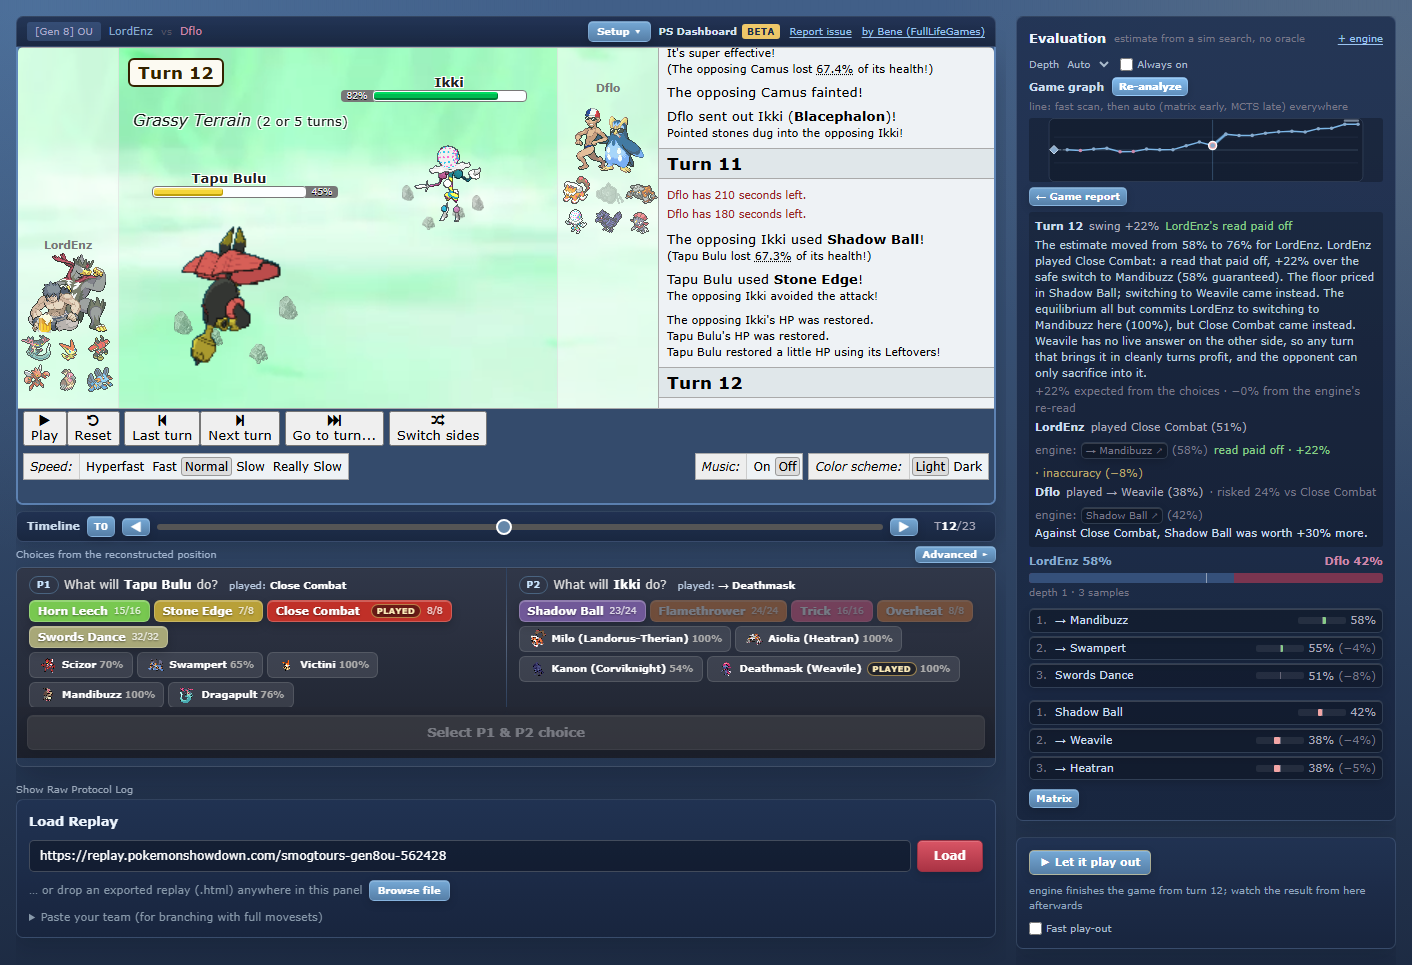
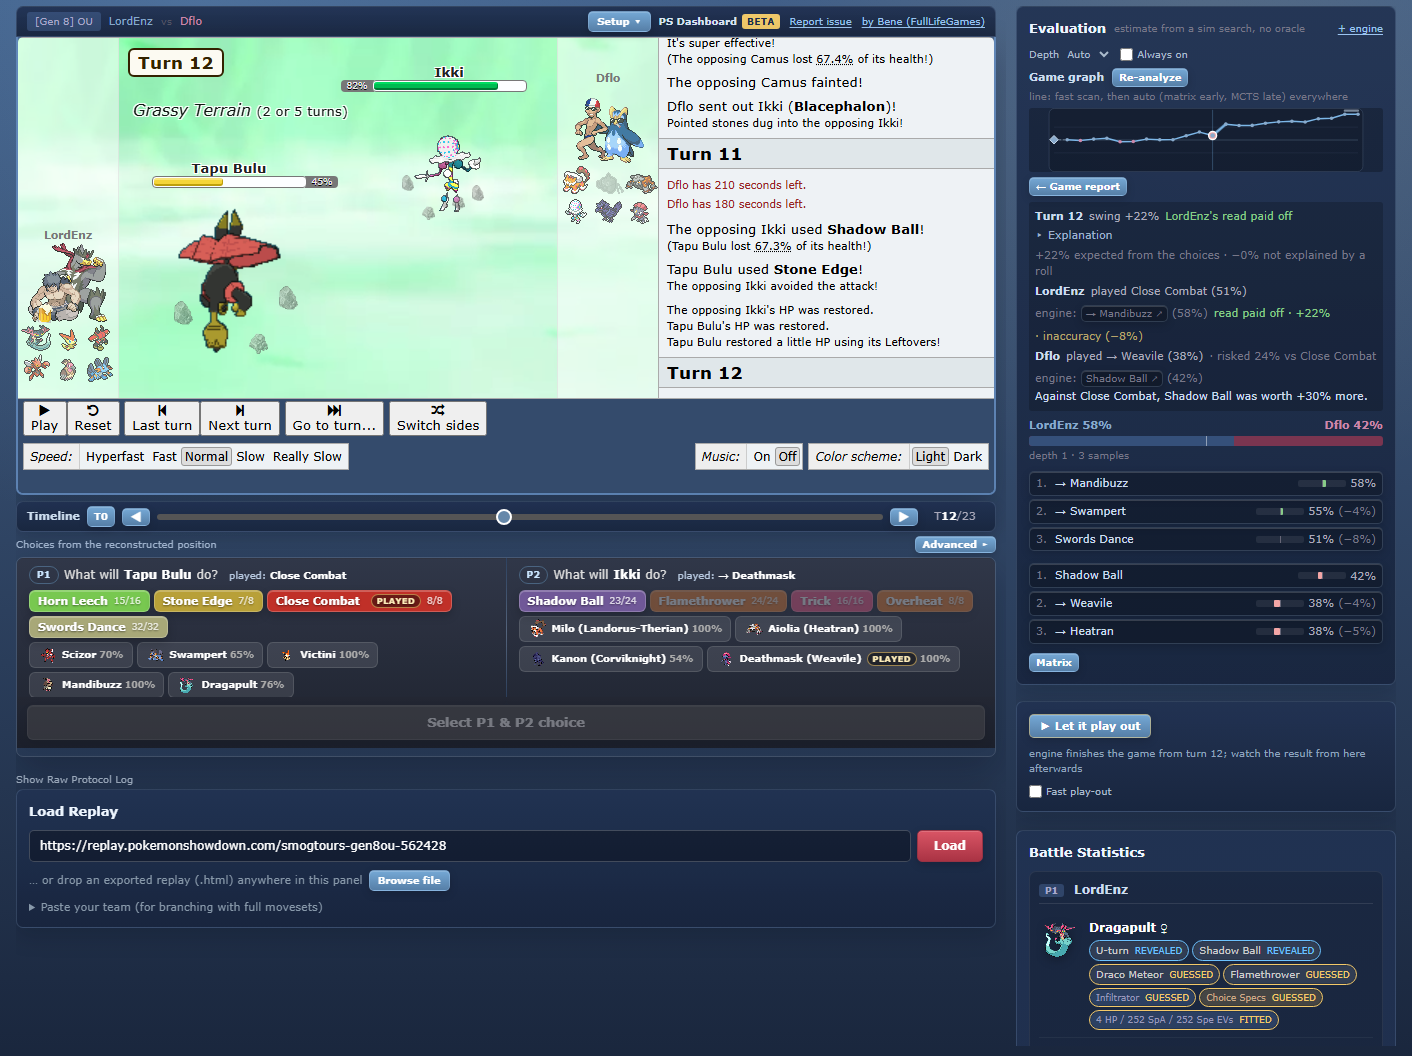
Retake the README picture in the UI of round 80

diff --git a/index.html b/index.html
@@ -12,7 +12,7 @@
     <meta property="og:description" content="Chess-style analysis for Pokémon Showdown replays. Load a replay, scrub to any turn, read the engine's evaluation, and play out your own line from there." />
     <meta property="og:image" content="https://fulllifegames.github.io/PSDashboard/ps-dashboard.png" />
     <meta property="og:image:width" content="1412" />
-    <meta property="og:image:height" content="965" />
+    <meta property="og:image:height" content="1056" />
     <meta property="og:image:alt" content="PS Dashboard at turn 12 of a Gen 8 OU tournament game: the replay on the left, the evaluation and the turn's analysis on the right" />
     <meta name="twitter:card" content="summary_large_image" />
   </head>
